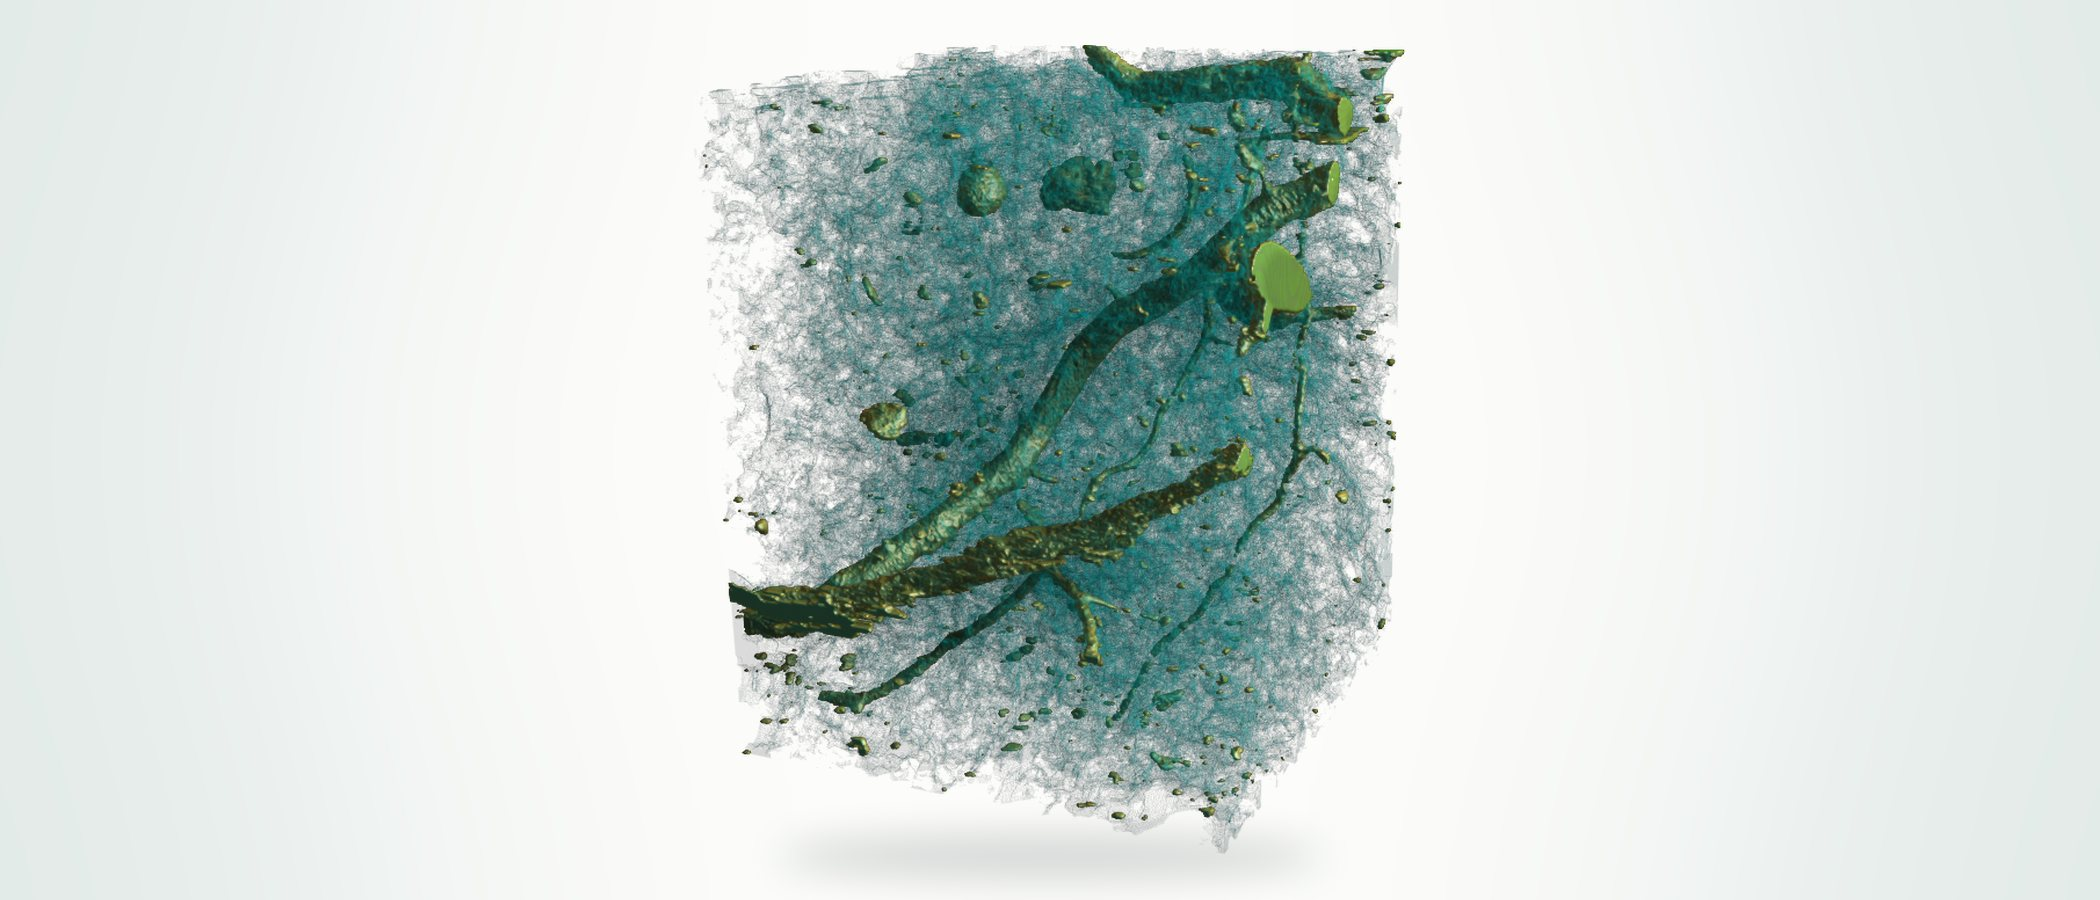
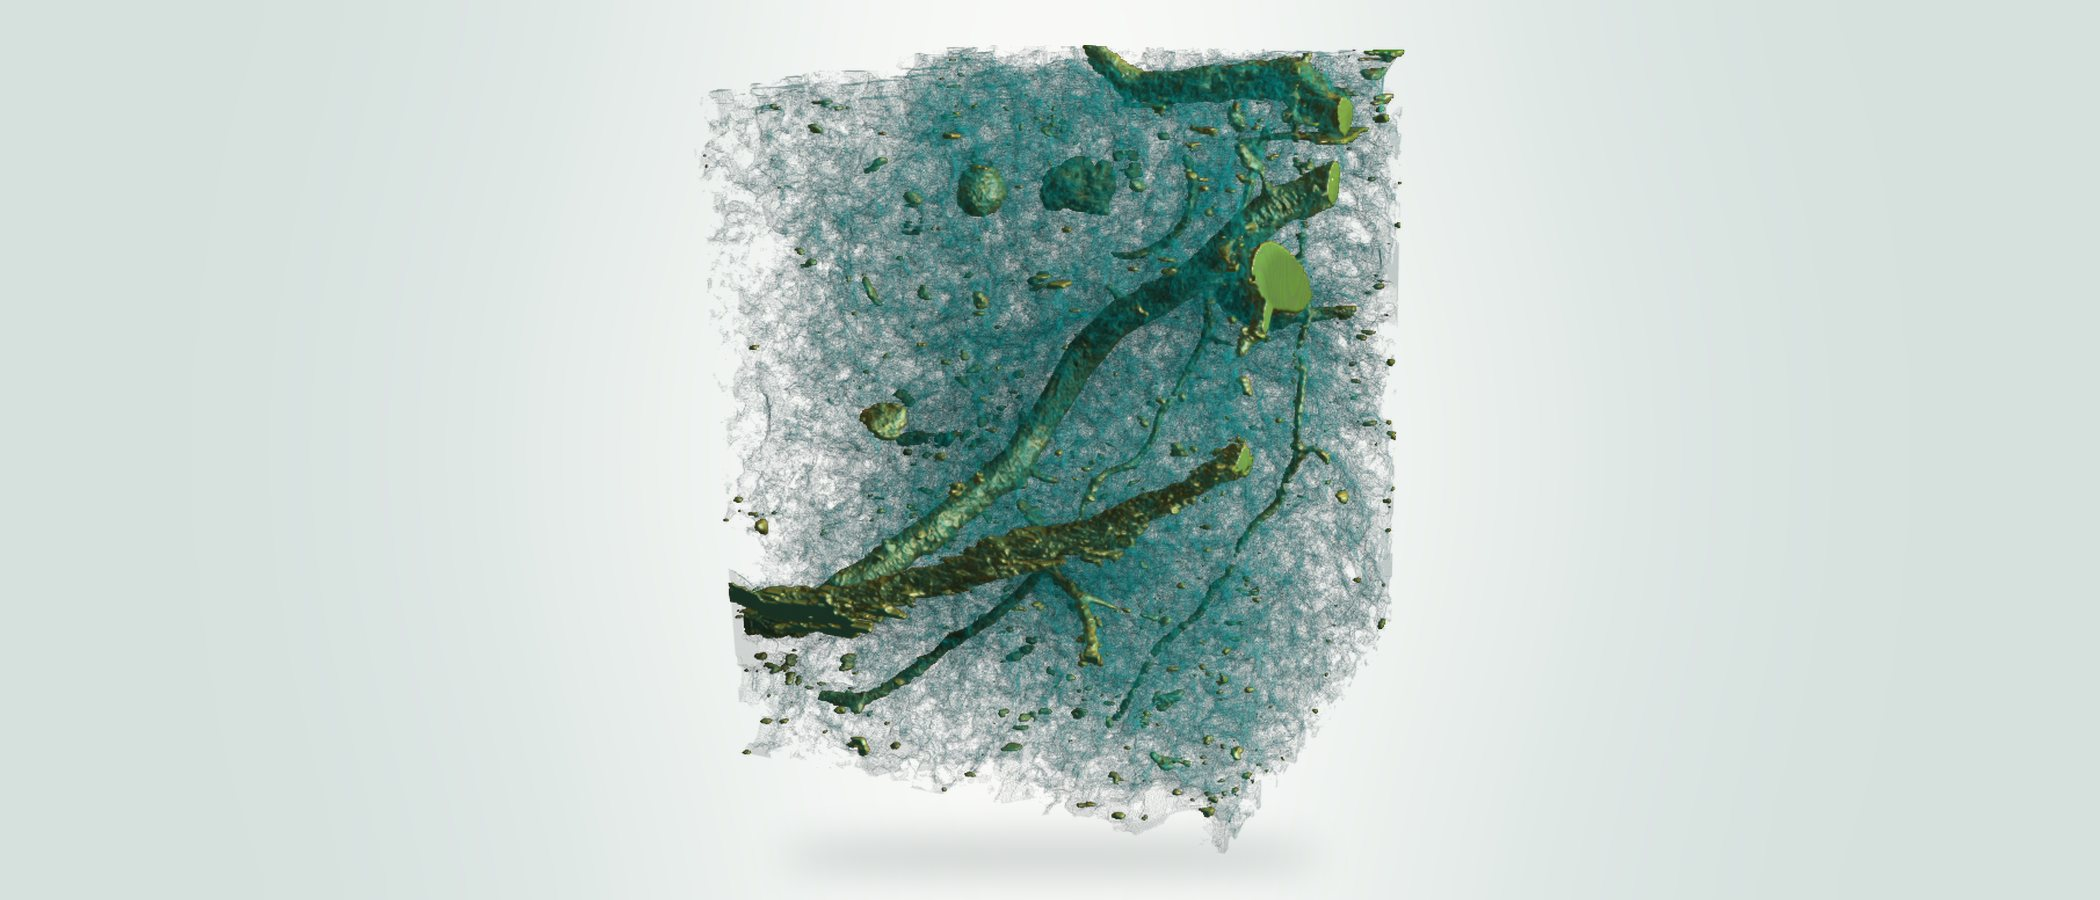
Research: project 1 backdrop with visible edges; project 2 composite image
Project 2: three tiles (WT Arabidopsis lane with traced roots, STXM carbon
map, carbon spectra from the published C-mapping figure) on a pale ground.

Changed region(s): [[0.7119, 0.0, 0.8667, 1.0], [0.1238, 0.0, 0.2786, 1.0]]

diff --git a/research.html b/research.html
@@ -53,7 +53,7 @@
         </div>
       </article>
       <article class="project-row" id="plant-p-uptake">
-        <div class="project-media"><img src="images/arabidopsis-roots.jpg" alt="Arabidopsis seedlings on a plate with their traced root systems" loading="lazy"></div>
+        <div class="project-media"><img src="images/phosphate-carbon.jpg" alt="Arabidopsis seedlings with traced roots, a soil carbon map from X-ray spectromicroscopy, and carbon spectra" loading="lazy"></div>
         <div class="project-text">
           <h2>Linking plant phosphate uptake to soil carbon dynamics</h2>
           <p><span class="summary-q">How do plants regulate root foraging in soil pore structure, and how does this affect carbon persistence?</span> Plants adjust root growth to reach phosphorus-rich zones in soil. We connect plant genetics and molecular signaling to how roots grow through real soil pore networks, combining 3D root and rhizosphere imaging with ¹³C labeling to trace effects on microbial activity and carbon persistence.</p>

diff --git a/index.html b/index.html
@@ -66,7 +66,7 @@
           <div class="card-body"><h3 class="h-sm">Soil structure and carbon under changing precipitation</h3><p>How changing precipitation affects soil structure, rhizosphere processes, and carbon storage.</p></div>
         </a>
         <a class="card project-card" href="research.html#plant-p-uptake">
-          <img src="images/arabidopsis-roots.jpg" alt="Arabidopsis seedlings on a plate with their traced root systems" loading="lazy">
+          <img src="images/phosphate-carbon.jpg" alt="Arabidopsis seedlings with traced roots, a soil carbon map from X-ray spectromicroscopy, and carbon spectra" loading="lazy">
           <div class="card-body"><h3 class="h-sm">Linking plant phosphate uptake to soil carbon dynamics</h3><p>How do plants regulate root foraging in soil pore structure, and how does this affect carbon persistence?</p></div>
         </a>
         <a class="card project-card" href="research.html#soil-on-a-chip">
